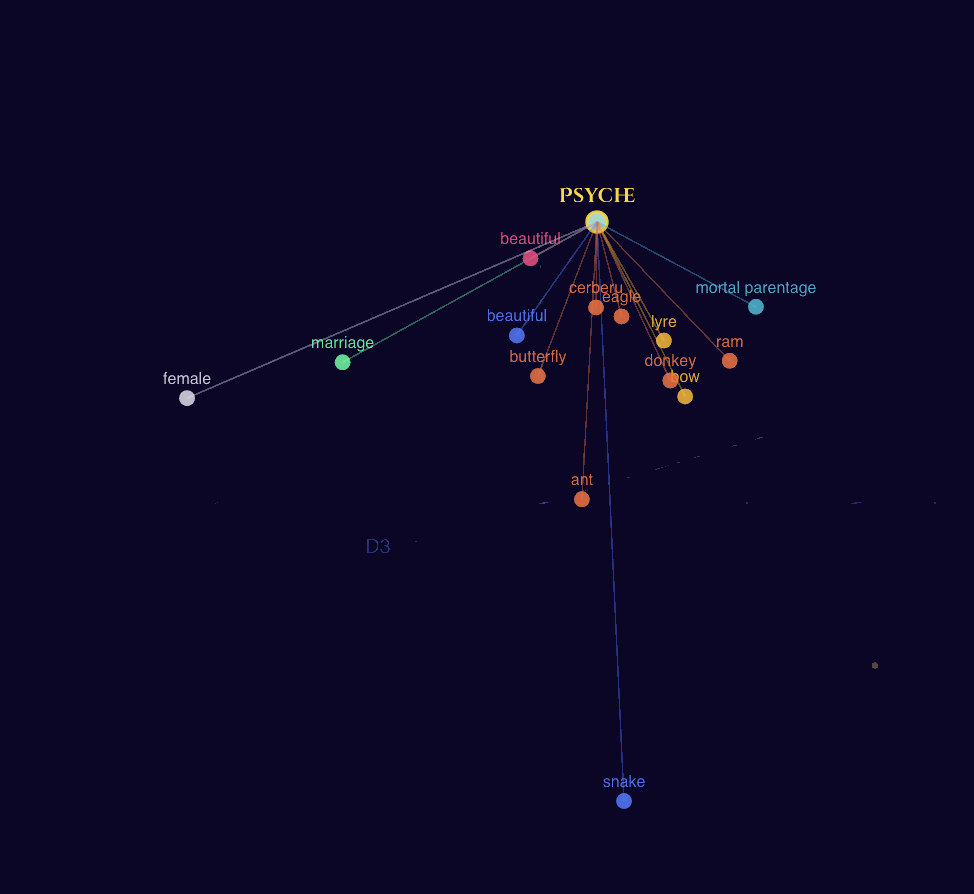
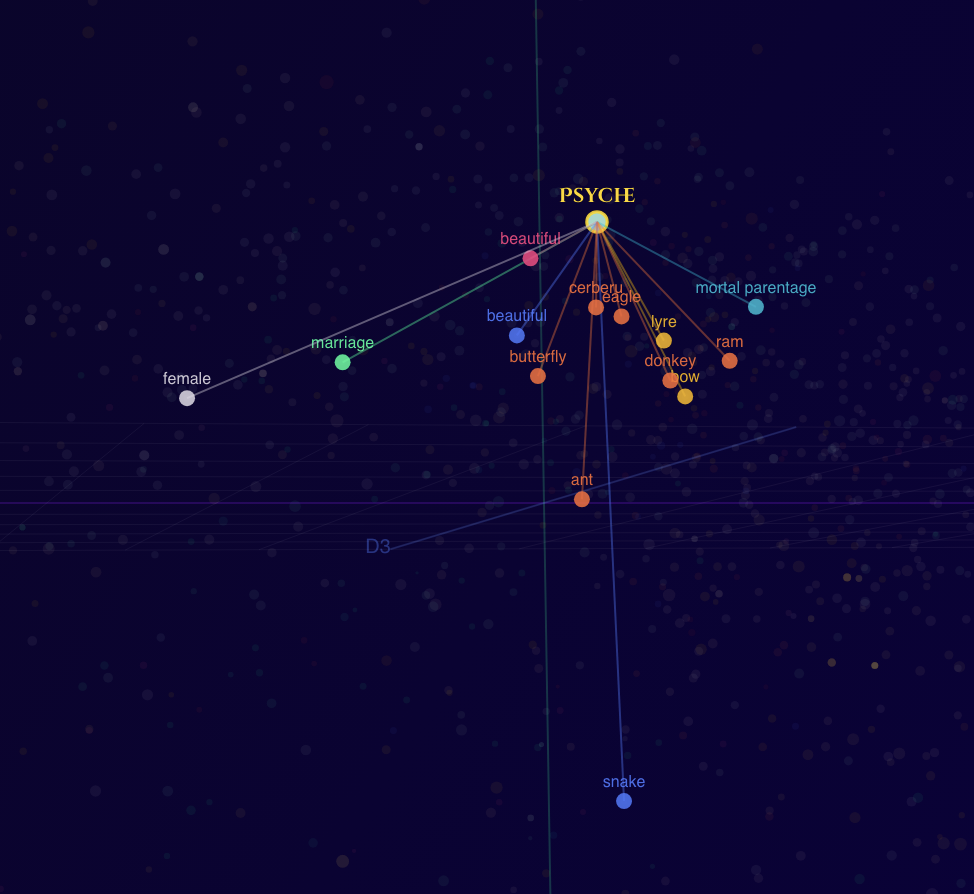
Blend Psyche image edges smoothly into the page background
Restore original Psyche image and apply a radial gradient mask to its `img` tag in `landing.tsx` to ensure seamless blending with the page background.

Replit-Commit-Author: Agent
Replit-Commit-Session-Id: 3810986d-55ee-4694-b48e-11d8e77c671f
Replit-Commit-Checkpoint-Type: full_checkpoint
Replit-Commit-Event-Id: 616cd981-b71c-442b-984c-b47116122c42
Replit-Commit-Screenshot-Url: https://storage.googleapis.com/screenshot-production-us-central1/0b0c97ea-d320-4611-b5d4-c3324fb29892/3810986d-55ee-4694-b48e-11d8e77c671f/nDWHKyC
Replit-Helium-Checkpoint-Created: true

diff --git a/client/src/pages/landing.tsx b/client/src/pages/landing.tsx
@@ -93,12 +93,13 @@ function AboutSection() {
             </div>
           </div>
 
-          <div className="flex items-center justify-center">
+          <div className="relative flex items-center justify-center">
             <img
               src={psycheImgPath}
               alt="Psyche node graph visualization"
-              className="w-full max-w-md rounded-lg"
+              className="w-full max-w-md"
               data-testid="img-about-psyche"
+              style={{ mask: "radial-gradient(ellipse 85% 85% at center, black 50%, transparent 100%)", WebkitMask: "radial-gradient(ellipse 85% 85% at center, black 50%, transparent 100%)" }}
             />
           </div>
         </div>
